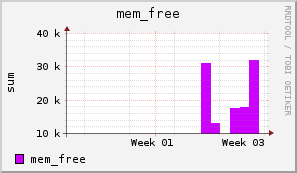
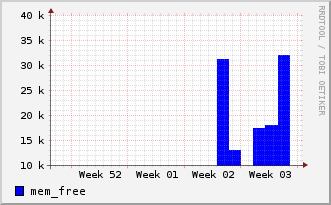
now can load graph  normally

diff --git a/ganglia/templates/ganglia/detail.html b/ganglia/templates/ganglia/detail.html
@@ -15,7 +15,7 @@
       <ul class=list-group>
         {% for metric in metric_list %}
         <li class=list-group-item>
-          <a href="">{{metric.metric_name}}</a>
+          <a href="">{{metric.mtc_name}}</a>
         </li>
         {% endfor %}
       </ul>
@@ -32,25 +32,25 @@
     </div>
     <div class="col-md-10">
 	{% for metric in metric_list %}
-	  <h4 align="center">{{metric.metric_name}} graph</h4>
+	  <h4 align="center">{{metric.mtc_name}} graph</h4>
 	  <div align="center" class="row">
 	    <div class="col-md-4 col-md-offset-1">
 		{% load staticfiles%}
-	        <img src="{% static "ganglia/images/cpu_system_hour.png" %}"/>
+	        <img src="{% static metric.img_path.0 %}"/>
 	    </div>
 	    <div class="col-md-4 col-md-offset-1">
 		{% load staticfiles%}
-	        <img src="{% static "ganglia/images/cpu_system_day.png" %}"/>
+	        <img src="{% static metric.img_path.1 %}"/>
 	    </div>
 	  </div>
 	  <div align="center" class="row">
 	    <div class="col-md-4 col-md-offset-1">
 		{% load staticfiles%}
-	        <img src="{% static "ganglia/images/cpu_system_week.png" %}"/>
+	        <img src="{% static metric.img_path.2 %}"/>
 	    </div>
 	    <div class="col-md-4 col-md-offset-1">
 		{% load staticfiles%}
-	        <img src="{% static "ganglia/images/cpu_system_month.png" %}"/>
+	        <img src="{% static metric.img_path.3 %}"/>
 	    </div>
 	  </div>
 	{% endfor%}

diff --git a/ganglia/util.py b/ganglia/util.py
@@ -1,5 +1,6 @@
-import rrdtool
-from ganglia.models import Resource,Metric,Host
+#import rrdtool
+#from ganglia.models import Resource,Metric,Host
+import os
 import jpype
 
 def get_relate(res_list):
@@ -35,25 +36,26 @@ def str_to_list(s):
 '''
 generate images for metrics in the resource
 '''
-def res_img(res):
-	metric_list = Metric.objects.filter(resource=res)
-	res_img = {}
+def res_img(metric_list):
+	res_img_list = {}
 	for metric in metric_list:
-		generate_img(str(res.res_hostname),str(metric.metric_name),'hour')
-		generate_img(str(res.res_hostname),str(metric.metric_name),'day')
-		generate_img(str(res.res_hostname),str(metric.metric_name),'week')
-		generate_img(str(res.res_hostname),str(metric.metric_name),'month')
-		metric_imgpath = ['ganglia/images/%s_hour.png' % metric.metric_name,
-			'ganglia/images/%s_day.png' % metric.metric_name,
-			'ganglia/images/%s_week.png'% metric.metric_name,
-			'ganglia/images/%s_month.png' % metric.metric_name]	
-		res_img[metric.metric_name] = metric_imgpath
-	return res_img
+		hostname = str(metric.mtr_hostname)
+		m_name = str(metric.metric_name)
+		generate_img(hostname,m_name,'hour')
+		generate_img(hostname,m_name,'day')
+		generate_img(hostname,m_name,'week')
+		generate_img(hostname,m_name,'month')
+		metric_imgpath = ['ganglia/images/%s_hour.png' % m_name,
+			'ganglia/images/%s_day.png' % m_name,
+			'ganglia/images/%s_week.png'% m_name,
+			'ganglia/images/%s_month.png' % m_name]	
+		res_img_list[m_name] = metric_imgpath
+	return res_img_list
 
 
 def generate_img(host_name,metric_name,time):
 	img_path = "/home/ganglia/django_proj/monitor/ganglia/static/ganglia/images/"
-	rrd_path = "/var/lib/ganglia/rrds/my cluster/"+host_name+"/"+metric_name.lower()+".rrd"
+	rrd_path = "/var/lib/ganglia/rrds/my\ cluster/"+host_name+"/"+metric_name.lower()+".rrd"
 	if time == "hour":
 		rrdtool_graph(img_path+metric_name+'_hour.png',rrd_path,'end-1h','now',metric_name,'180')
 	elif time == "day":
@@ -66,7 +68,14 @@ def generate_img(host_name,metric_name,time):
 		return 
 
 
-def rrdtool_graph(i_path,r_path,start,end,mtric_name,step):
+def rrdtool_graph(i_path,r_path,start,end,mtric_name,step):	
+	print r_path
+	command = "rrdtool graph %s --end %s --start %s --width 250 --height 150 DEF:ds=%s:sum:AVERAGE:step=%s AREA:ds#0000FF:%s" % (i_path,end,start,r_path,step,mtric_name)
+	os.system(command)
+
+
+
+'''def rrdtool_graph(i_path,r_path,start,end,mtric_name,step):	
 	rrdtool.graph(i_path,'--imgformat','PNG',
 	'--width','250',
 	'--height','150',
@@ -77,7 +86,7 @@ def rrdtool_graph(i_path,r_path,start,end,mtric_name,step):
 	'DEF:ds=%s:sum:AVERAGE:step=%s' % (r_path,step),
 	'AREA:ds#CC00FF:%s' % mtric_name
 	)
-
+'''
 
 
 if __name__ == "__main__":

diff --git a/ganglia/views.py b/ganglia/views.py
@@ -13,12 +13,23 @@ def index(request):
 	get_relate(resource_list)
 	context = {'resource_list': resource_list,'host_list':host_list}
 	return render(request,'ganglia/index.html',context)
-
 	
+
+
 def detail(request,resource_id):
 	res = get_object_or_404(Resource,pk=resource_id)
-	res_img(res)
 	metric_list = Metric.objects.filter(resource=res)
+
+	#generate graph for every metric
+	path_list = res_img(metric_list)
+	
+	mtc_list = []
+	for metric in metric_list:
+		mtc= {}
+		mtc["mtc_name"] = metric.metric_name
+		mtc['img_path'] = path_list[metric.metric_name]
+		mtc_list.append(mtc)
+
 	rel_namelist = str_to_list(res.res_related)
 	rel_list = []
 	for rel_name in rel_namelist:
@@ -26,6 +37,6 @@ def detail(request,resource_id):
 		rel_fil = Resource.objects.filter(res_name=rel_name.strip(),res_hostname=res.res_hostname)
 		if not len(rel_fil)==0:
 			rel_list.append(rel_fil[0])
-	return render(request,"ganglia/detail.html",{'resource':res,'metric_list':metric_list,'relate_list':rel_list,'res_img':res_img})
+	return render(request,"ganglia/detail.html",{'resource':res,'metric_list':mtc_list,'relate_list':rel_list})
 
 
